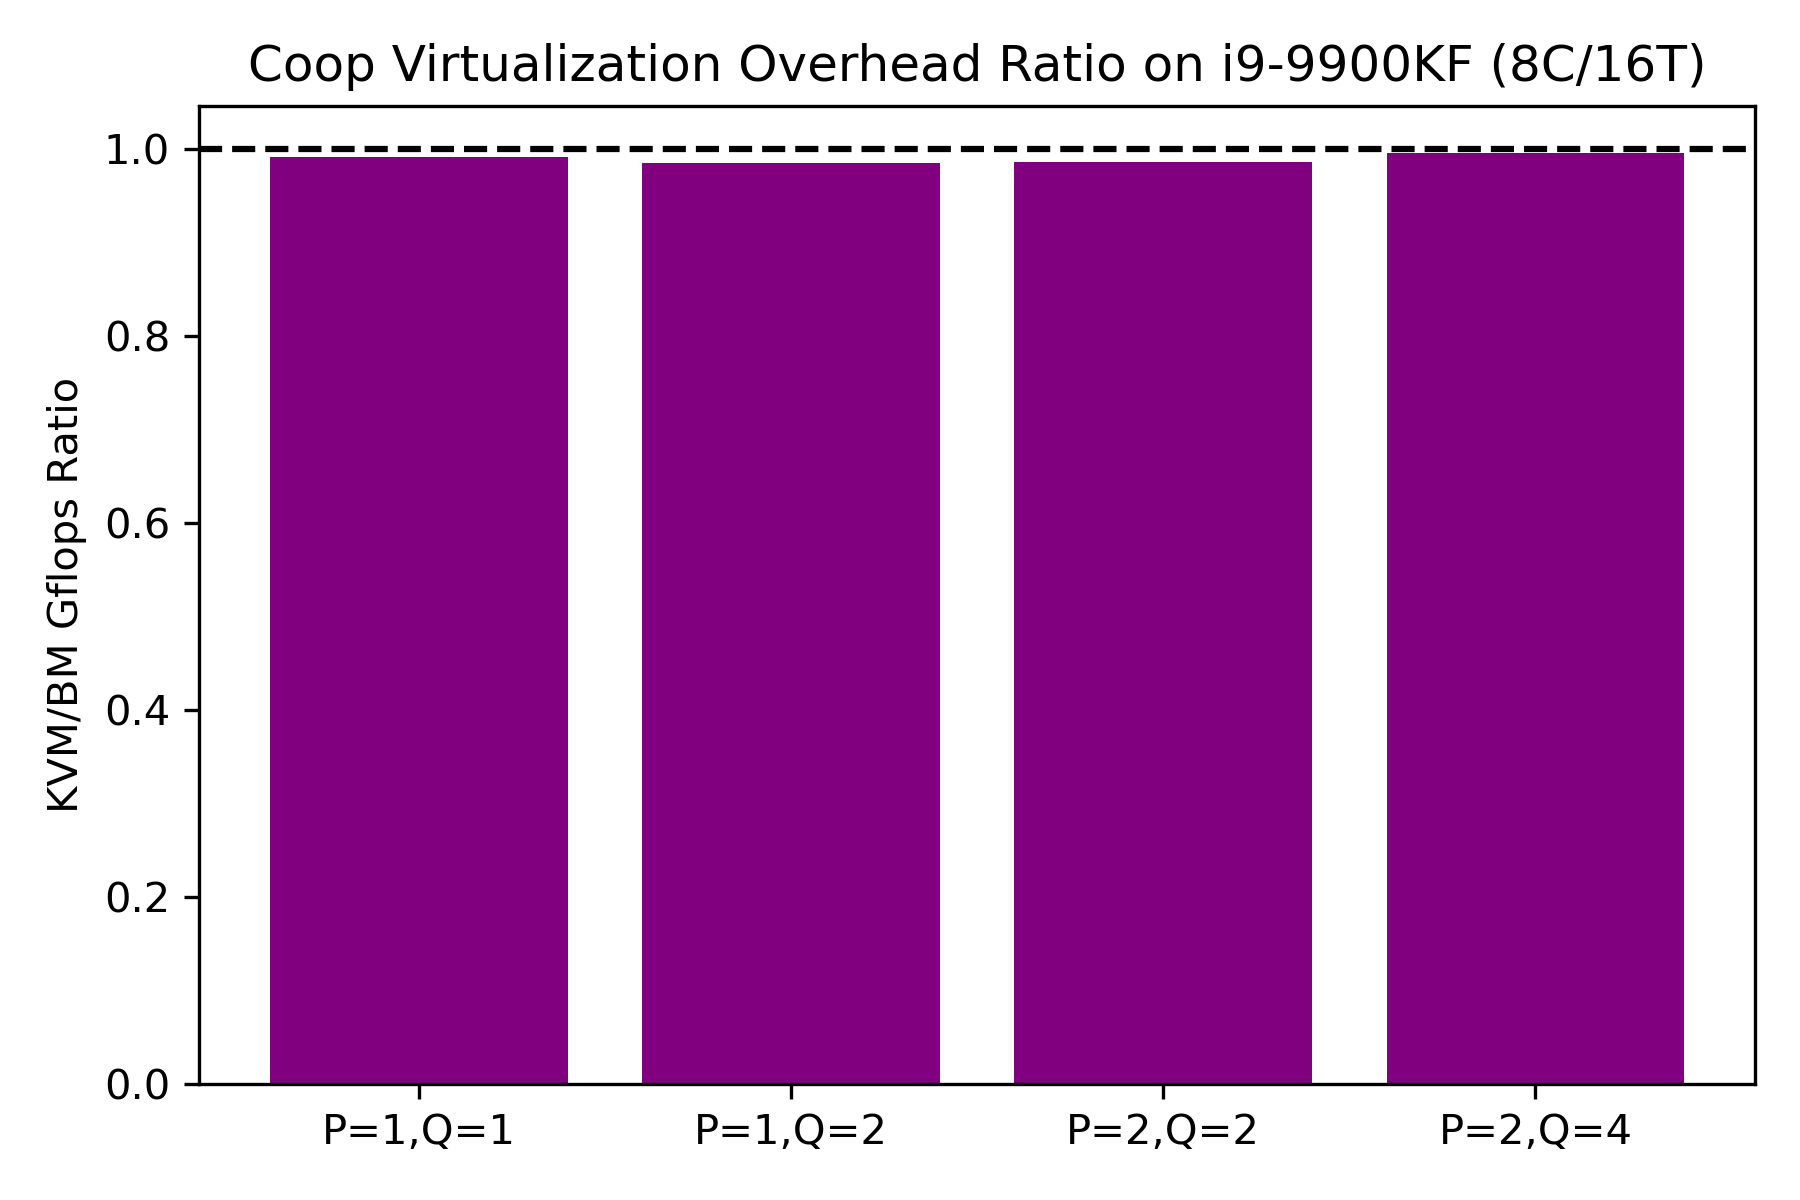
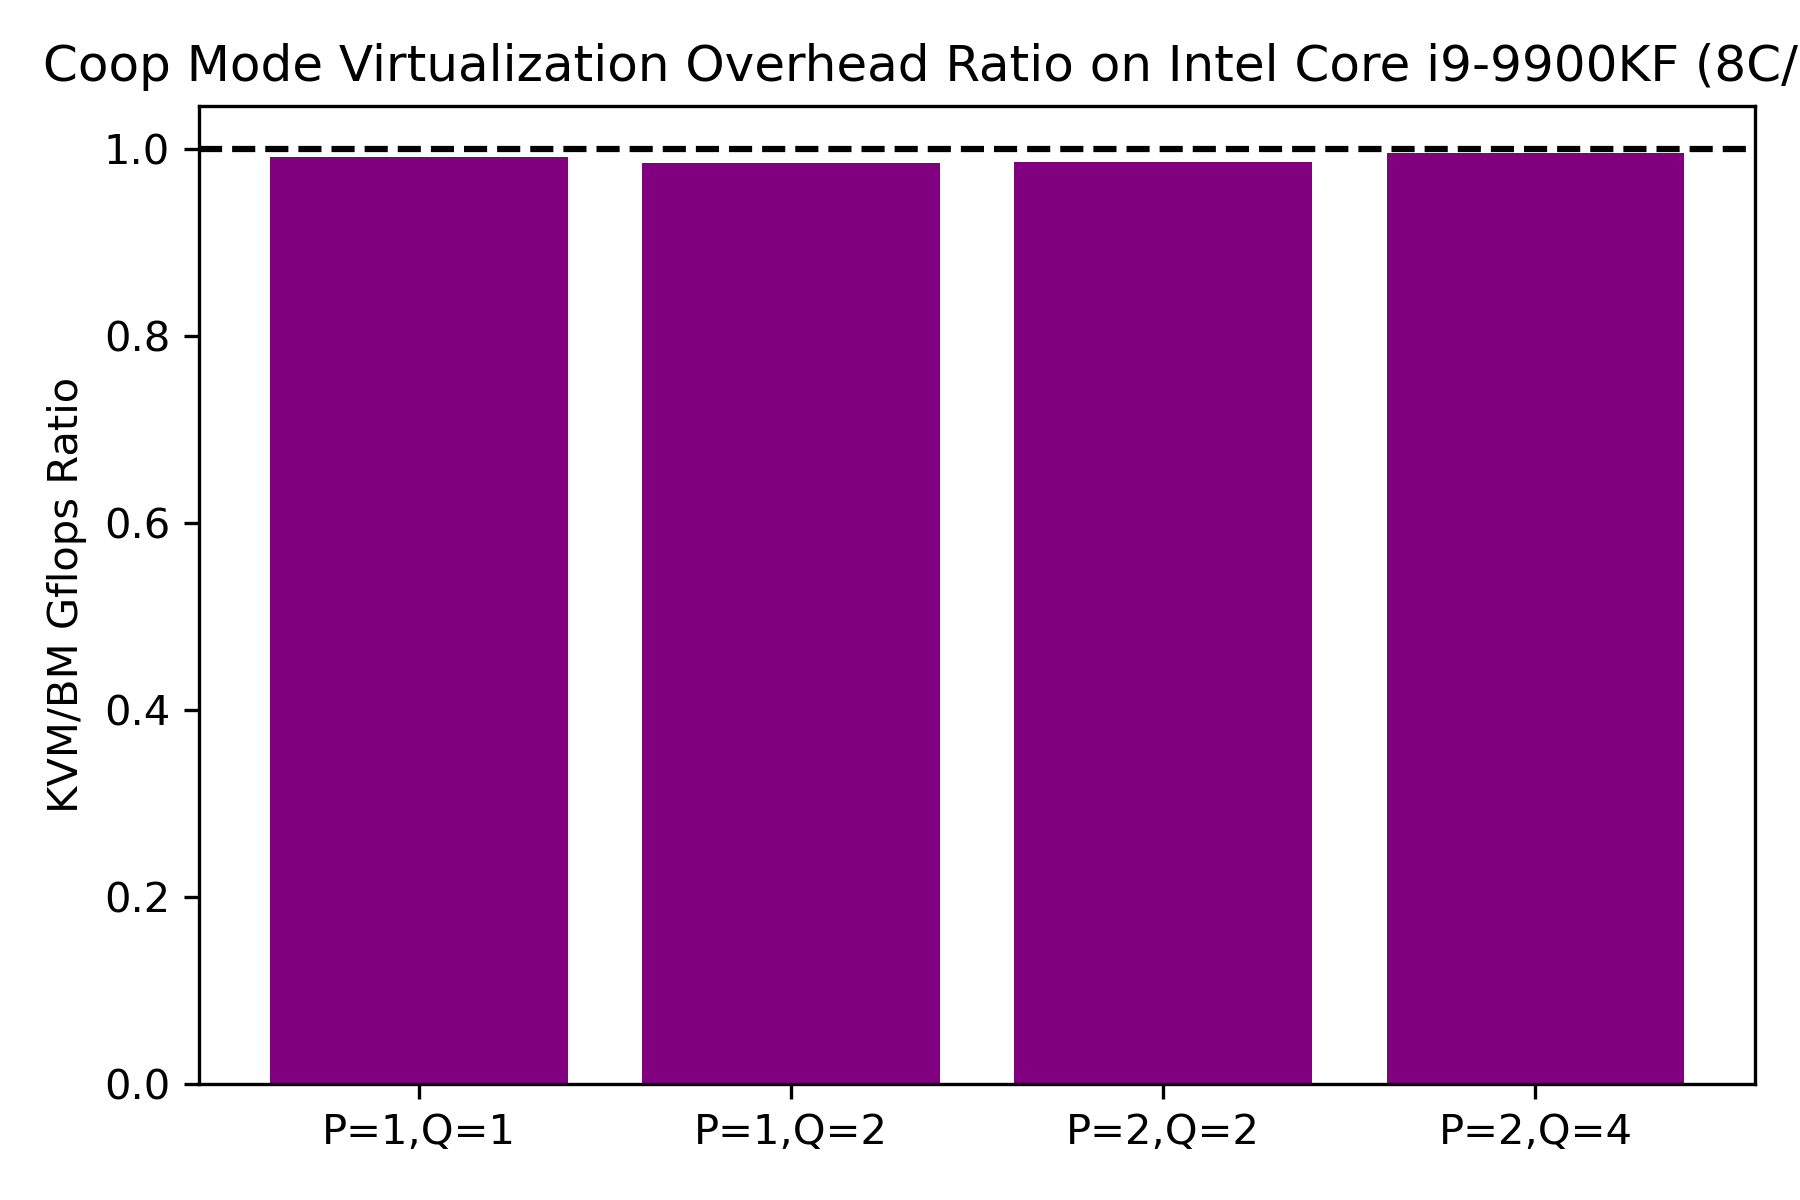
Add report generation script for virtualization performance analysis

Changed region(s): [[0.0311, 0.0308, 1.0, 0.0925]]

diff --git a/verified_results/report/report2.py b/verified_results/report/report2.py
@@ -1,0 +1,212 @@
+import matplotlib.pyplot as plt
+import numpy as np
+import seaborn as sns
+
+cpu_model = "Intel Core i9-9900KF (8C/16T)"
+
+# Dummy Data Structures: Replace with actual parsed results
+# Suppose you have dictionaries like before for coop_data and comp_data:
+# coop_data[(P,Q)] = (bm_mean_gflops, bm_std, kvm_mean_gflops, kvm_std)
+# comp_data[(P,Q)] = (bm_total_gflops, kvm_total_gflops)
+coop_data = {
+    (1, 1): (4.65, 0.00, 4.61, 0.01),
+    (1, 2): (8.57, 0.04, 8.44, 0.01),
+    (2, 2): (16.44, 0.11, 16.21, 0.06),
+    (2, 4): (25.21, 0.07, 25.12, 0.14),
+}
+
+comp_data = {
+    (1, 1): (86.13, 86.50),
+    (1, 2): (86.36, 85.22),
+    (2, 2): (130.05, 131.38),
+    (2, 4): (125.66, 125.16),
+}
+
+# Cluster scaling data (P=1,Q=1) and (P=1,Q=2) from previous scenario
+# Format: {num_vms: (gflops_p11, time_p11, gflops_p12, time_p12)}
+scaling_data = {
+    1: (4.54, 18.35, 8.43, 9.89),
+    2: (3.90, 21.39, 7.40, 11.27),
+    4: (2.12, 39.66, 4.13, 20.22),
+    8: (0.78, 107.13, 1.57, 53.29),
+}
+
+########################################
+# Ratio Comparison (Coop mode)
+########################################
+# Plot ratio KVM/BM for coop mode
+fig, ax = plt.subplots(figsize=(6, 4))
+labels = []
+ratios = []
+for (p, q), vals in coop_data.items():
+    bm_mean, bm_std, kvm_mean, kvm_std = vals
+    ratio = kvm_mean / bm_mean
+    labels.append(f"P={p},Q={q}")
+    ratios.append(ratio)
+
+x = np.arange(len(labels))
+ax.bar(x, ratios, color="purple")
+ax.axhline(y=1.0, color="black", linestyle="--")
+ax.set_ylabel("KVM/BM Gflops Ratio")
+ax.set_title(f"Coop Mode Virtualization Overhead Ratio on {cpu_model}")
+ax.set_xticks(x)
+ax.set_xticklabels(labels)
+plt.tight_layout()
+plt.savefig("coop_mode_ratio.png", dpi=300)
+
+########################################
+# Ratio Comparison (Comp mode)
+########################################
+fig, ax = plt.subplots(figsize=(6, 4))
+labels = []
+ratios = []
+for (p, q), vals in comp_data.items():
+    bm_g, kvm_g = vals
+    ratio = kvm_g / bm_g
+    labels.append(f"P={p},Q={q}")
+    ratios.append(ratio)
+
+x = np.arange(len(labels))
+ax.bar(x, ratios, color="green")
+ax.axhline(y=1.0, color="black", linestyle="--")
+ax.set_ylabel("KVM/BM Total Gflops Ratio")
+ax.set_title(f"Comp Mode Virtualization Overhead Ratio on {cpu_model}")
+ax.set_xticks(x)
+ax.set_xticklabels(labels)
+plt.tight_layout()
+plt.savefig("comp_mode_ratio.png", dpi=300)
+
+########################################
+# Efficiency Plot for Cluster Scaling
+# Efficiency = Gflops per VM, to see how efficiency drops as we add VMs
+########################################
+vm_counts = sorted(scaling_data.keys())
+p11_g = np.array([scaling_data[v][0] for v in vm_counts])
+p12_g = np.array([scaling_data[v][2] for v in vm_counts])
+
+p11_eff = p11_g / vm_counts
+p12_eff = p12_g / vm_counts
+
+fig, ax = plt.subplots(figsize=(6, 4))
+ax.plot(vm_counts, p11_eff, marker="o", label="(P=1,Q=1) Efficiency")
+ax.plot(vm_counts, p12_eff, marker="s", label="(P=1,Q=2) Efficiency")
+
+# Set axis limits to start from zero
+ax.set_xlim(0, max(vm_counts) + 1)  # Start x-axis from zero
+ax.set_ylim(
+    0, max(max(p11_eff), max(p12_eff)) * 1.1
+)  # Start y-axis from zero, add 10% padding
+
+ax.set_xlabel("Number of VMs")
+ax.set_ylabel("Gflops per VM")
+ax.set_title(f"Efficiency Degradation with More VMs on {cpu_model}")
+ax.grid(True)
+ax.legend()
+plt.tight_layout()
+plt.savefig("efficiency_degradation.png", dpi=300)
+
+
+########################################
+# Ratio of cluster performance to single-VM performance
+########################################
+p11_baseline = scaling_data[1][0]
+p12_baseline = scaling_data[1][2]
+
+p11_ratio = p11_g / p11_baseline
+p12_ratio = p12_g / p12_baseline
+
+fig, ax = plt.subplots(figsize=(6, 4))
+ax.plot(vm_counts, p11_ratio, marker="o", label="(P=1,Q=1)")
+ax.plot(vm_counts, p12_ratio, marker="s", label="(P=1,Q=2)")
+ax.set_xlabel("Number of VMs")
+ax.set_ylabel("Fraction of Single-VM Performance")
+ax.set_title("Relative Performance with Increasing VM Count")
+ax.axhline(y=1.0, color="black", linestyle="--", label="Single-VM baseline")
+ax.grid(True)
+ax.legend()
+plt.tight_layout()
+plt.savefig("relative_performance_cluster.png", dpi=300)
+
+########################################
+# Scatter plot: Gflops vs Time for a scenario
+# Let's pick Coop (P=2,Q=4) from BM and KVM to show distribution
+########################################
+# Suppose we have lists of run results for a given scenario (P=2,Q=4)
+# Replace with actual parsed run-level data if available.
+# Here we just simulate random data to show how you'd do it:
+
+# Example simulated data:
+bm_runs_g = [25.1, 25.2, 25.3, 25.1, 25.05]
+bm_runs_t = [3.31, 3.33, 3.30, 3.32, 3.31]
+kvm_runs_g = [25.12, 25.08, 25.20, 25.10, 25.09]
+kvm_runs_t = [3.32, 3.34, 3.31, 3.35, 3.33]
+
+fig, ax = plt.subplots(figsize=(6, 4))
+ax.scatter(bm_runs_t, bm_runs_g, color="blue", alpha=0.7, label="Bare-metal")
+ax.scatter(kvm_runs_t, kvm_runs_g, color="red", alpha=0.7, label="KVM")
+ax.set_xlabel("Time (s)")
+ax.set_ylabel("Gflops")
+ax.set_title(f"Performance Distribution: (P=2,Q=4) Coop Mode on {cpu_model}")
+ax.grid(True)
+ax.legend()
+plt.tight_layout()
+plt.savefig("scatter_time_gflops.png", dpi=300)
+
+plt.show()
+
+########################################
+# Heatmap (Optional, if you have a grid of P,Q)
+# If you have data for a regular grid of P,Q (e.g., P in {1,2,4}, Q in {1,2,4}),
+# you can create a 2D array and plot using seaborn heatmap.
+
+# Example (P,Q) sets
+# Suppose you have a nice grid: P_vals = [1,2,4], Q_vals=[1,2,4]
+# Construct arrays
+P_vals = [1, 2, 4]
+Q_vals = [1, 2, 4]
+# Example data: Just re-use coop_data or comp_data if it covers these points.
+# You must ensure all (P,Q) combos exist.
+heatmap_array_bm = np.array(
+    [
+        [coop_data[(p, q)][0] if (p, q) in coop_data else np.nan for q in Q_vals]
+        for p in P_vals
+    ]
+)
+heatmap_array_kvm = np.array(
+    [
+        [coop_data[(p, q)][2] if (p, q) in coop_data else np.nan for q in Q_vals]
+        for p in P_vals
+    ]
+)
+
+fig, ax = plt.subplots(figsize=(5, 4))
+sns.heatmap(
+    heatmap_array_bm,
+    annot=True,
+    xticklabels=Q_vals,
+    yticklabels=P_vals,
+    cmap="viridis",
+    ax=ax,
+)
+ax.set_title(f"Bare-metal Coop Gflops Heatmap on {cpu_model}")
+ax.set_xlabel("Q")
+ax.set_ylabel("P")
+plt.tight_layout()
+plt.savefig("baremetal_coop_heatmap.png", dpi=300)
+
+fig, ax = plt.subplots(figsize=(5, 4))
+sns.heatmap(
+    heatmap_array_kvm,
+    annot=True,
+    xticklabels=Q_vals,
+    yticklabels=P_vals,
+    cmap="viridis",
+    ax=ax,
+)
+ax.set_title(f"KVM Coop Gflops Heatmap on {cpu_model}")
+ax.set_xlabel("Q")
+ax.set_ylabel("P")
+plt.tight_layout()
+plt.savefig("kvm_coop_heatmap.png", dpi=300)
+
+plt.show()
